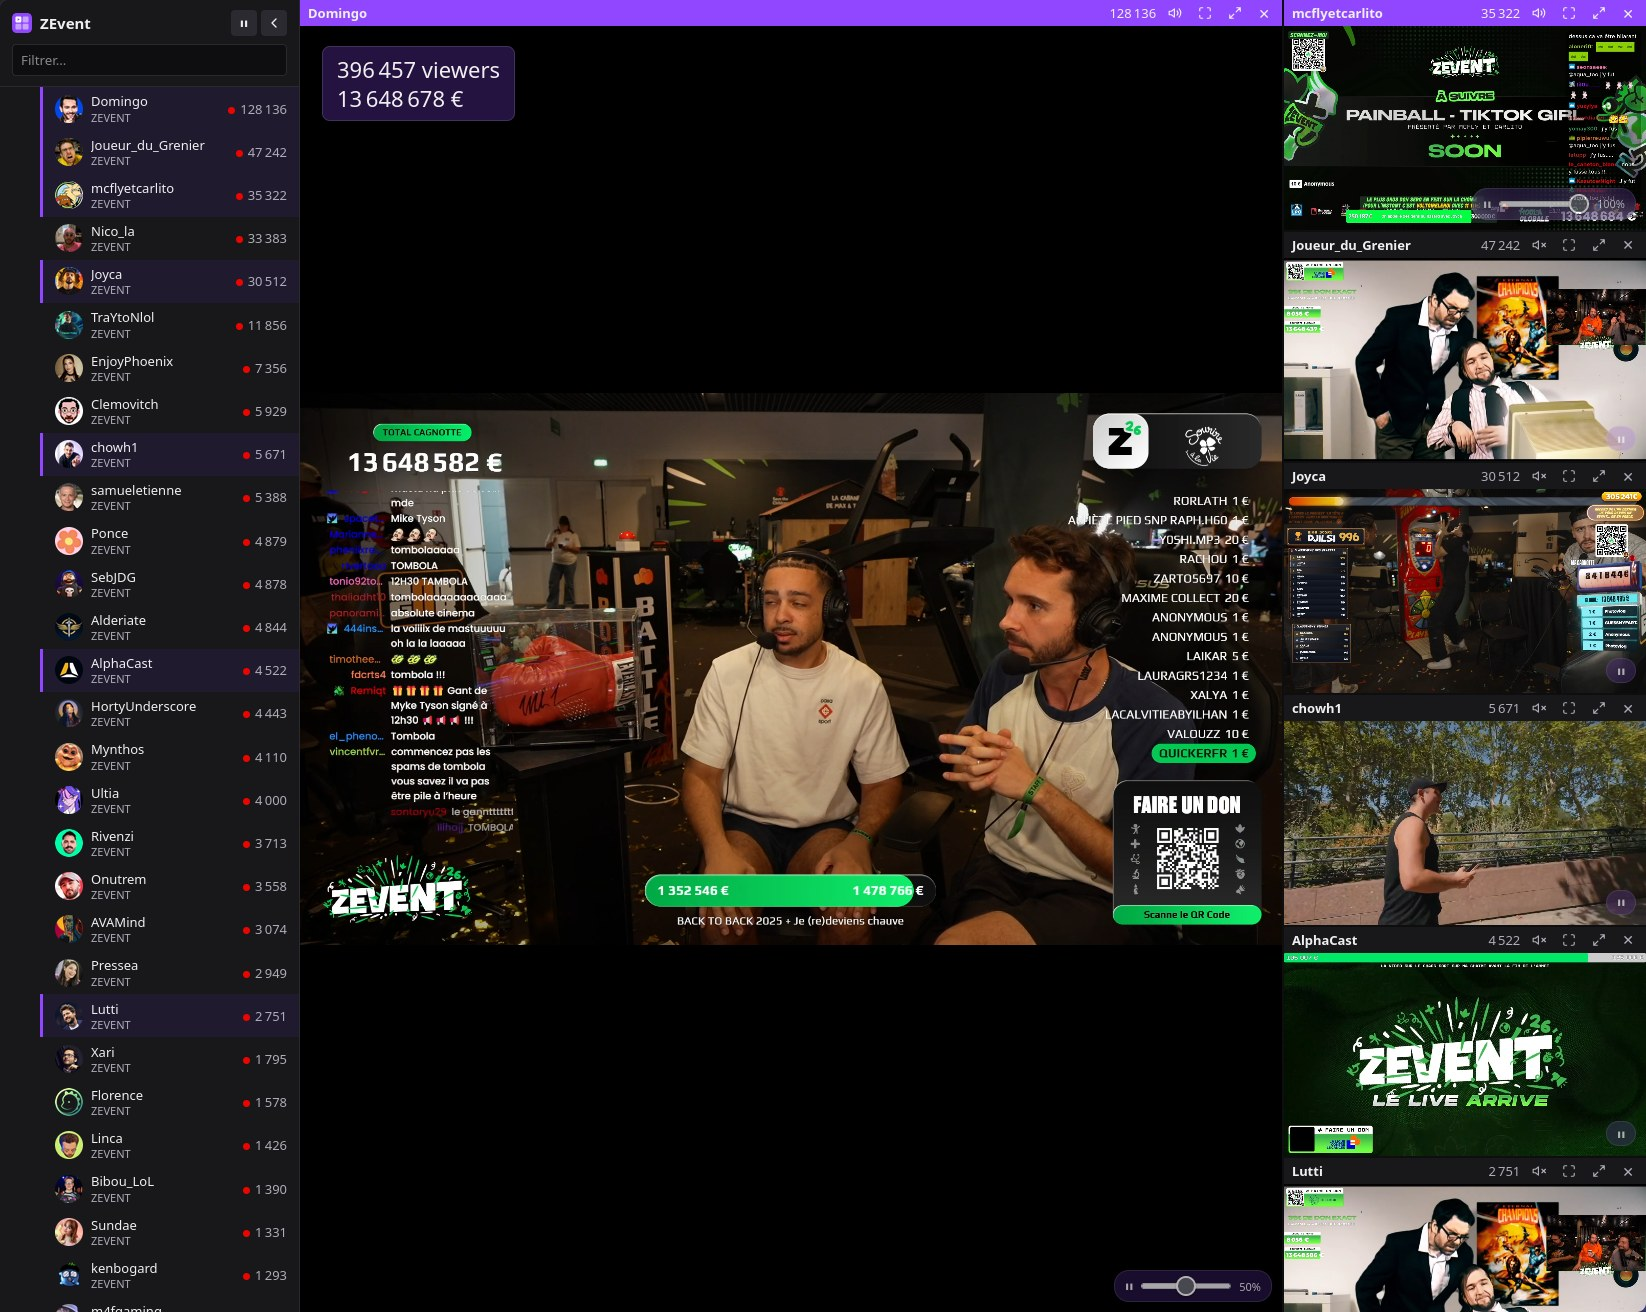
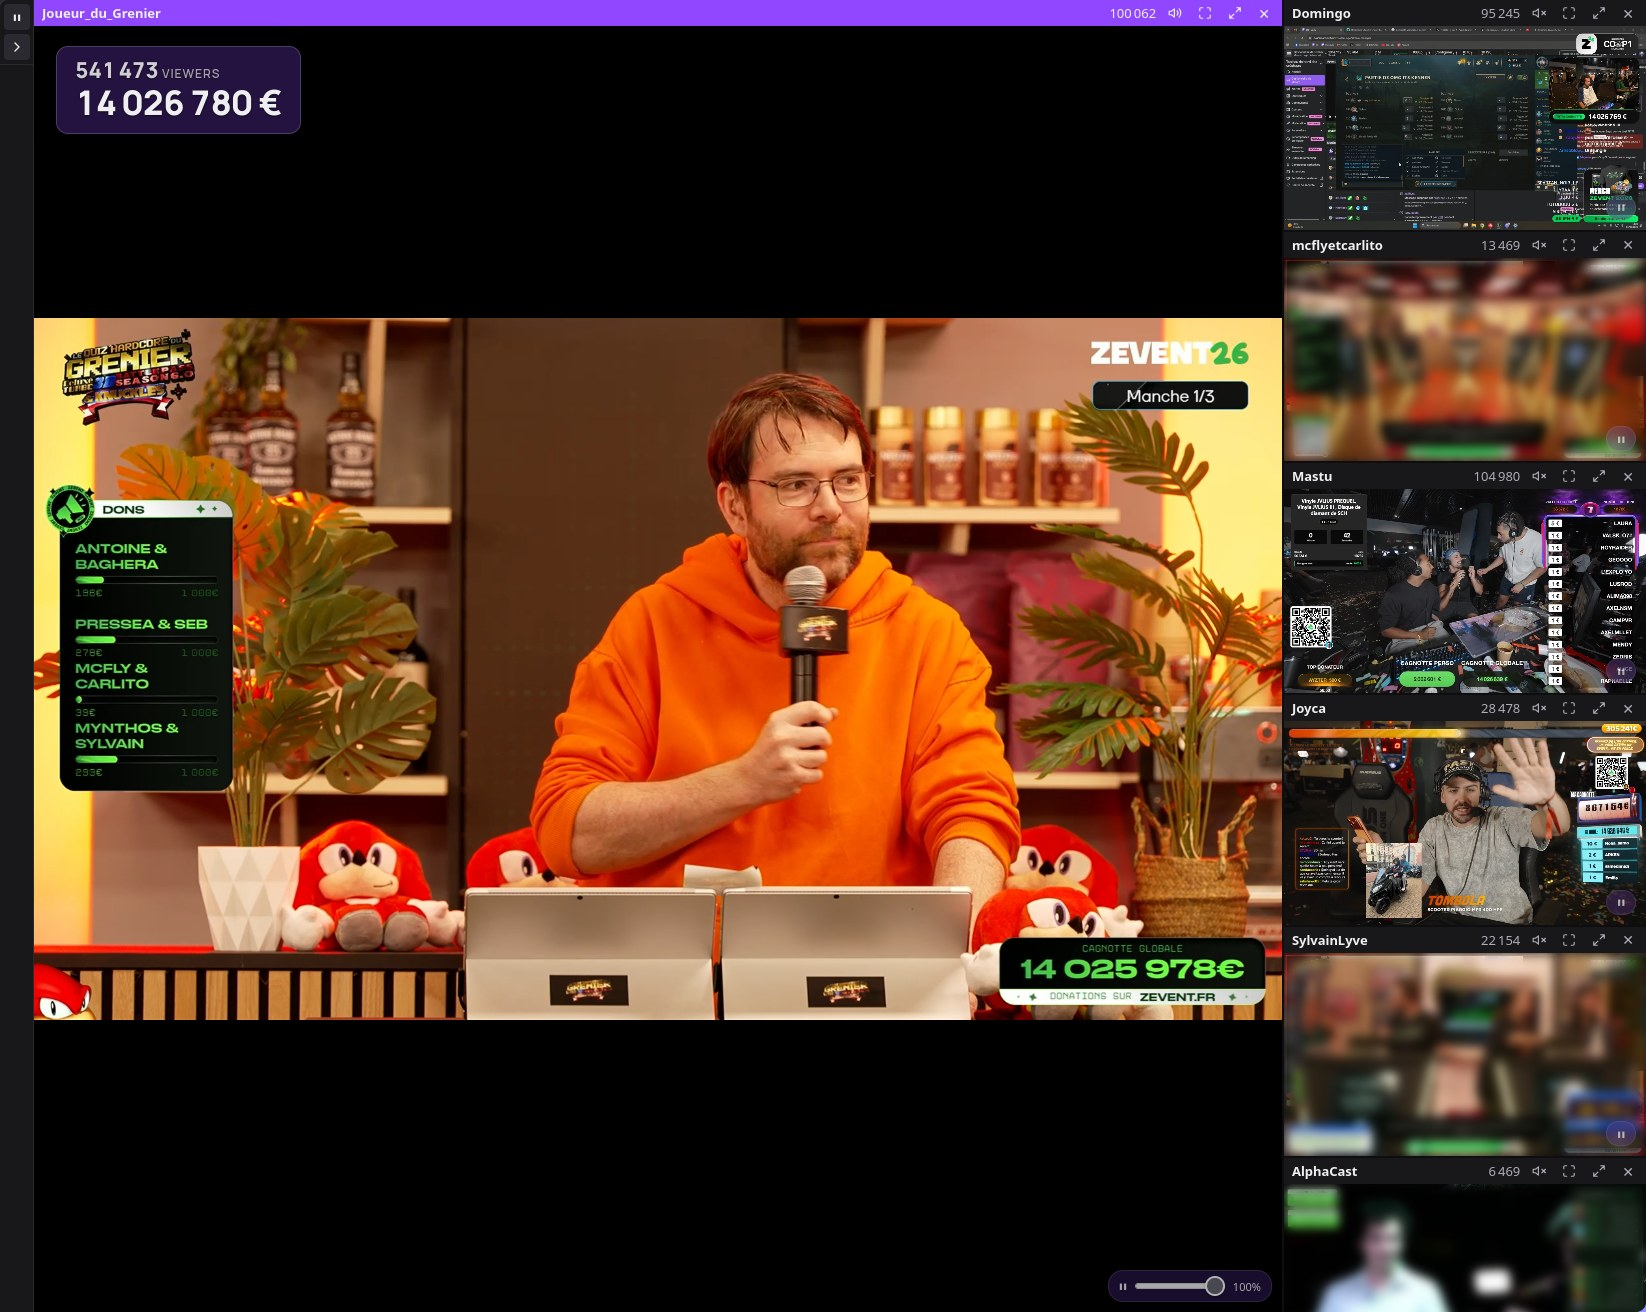
docs: refresh screenshot with the new counter

diff --git a/README.md b/README.md
@@ -4,7 +4,7 @@
 
 A one-page multi-stream viewer for [ZEvent](https://zevent.fr). Pick streamers from the live list, lay them out in a grid, spotlight one, and watch the cagnotte climb in real time.
 
-![ZEvent grid with the streamer list open, one stream spotlighted and a column of smaller tiles](docs/screenshot.jpg)
+![ZEvent grid with one stream spotlighted, a column of smaller tiles and the live viewers and donation counter](docs/screenshot.jpg)
 
 ## Features
 
